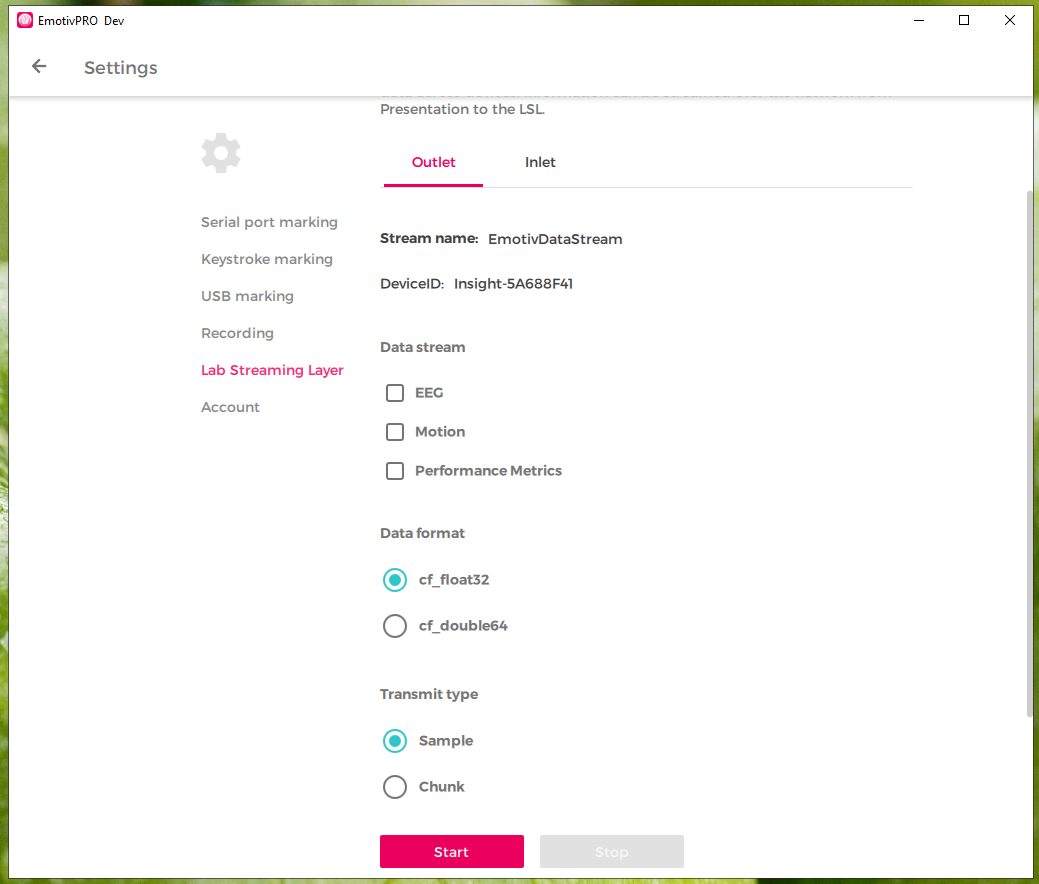
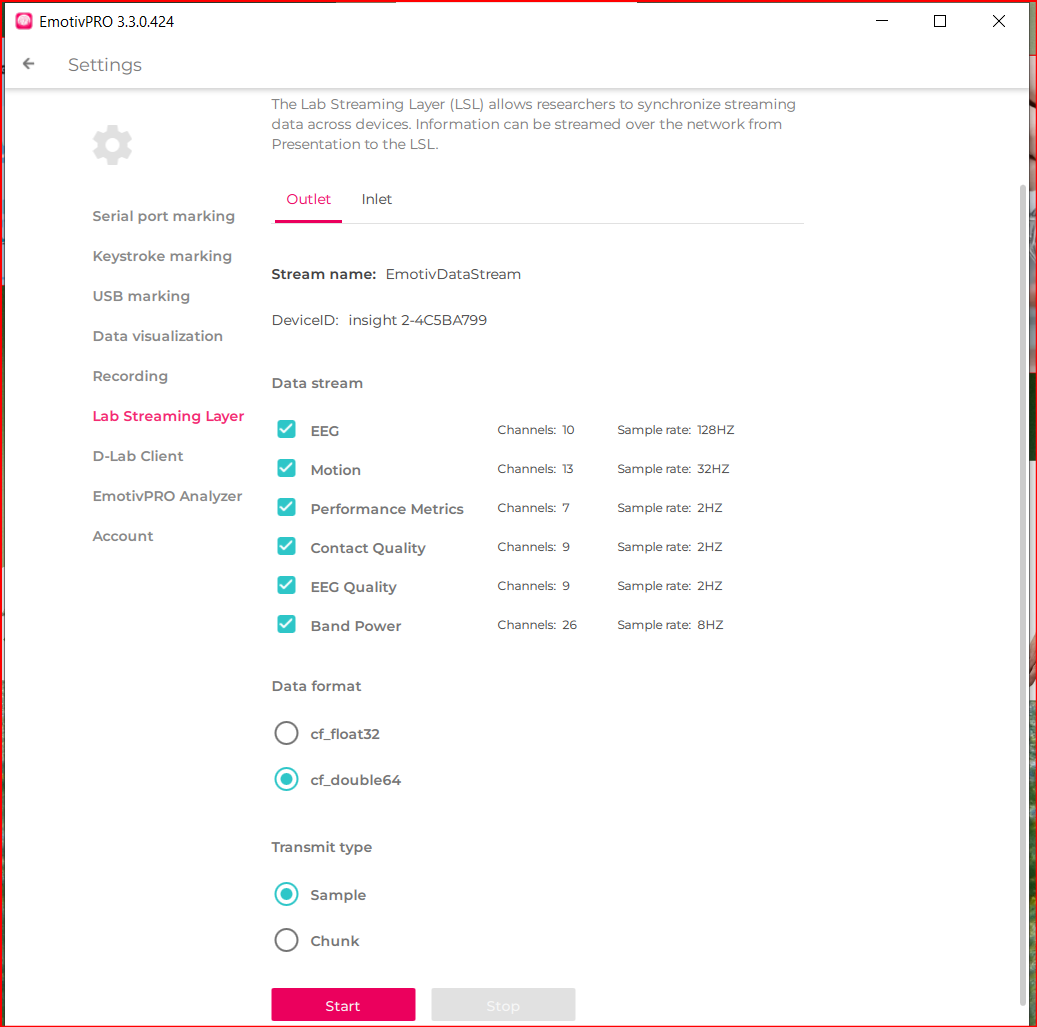
support band power lsl outlet

diff --git a/examples/python/ReceiveData.py b/examples/python/ReceiveData.py
@@ -2,17 +2,17 @@
 import time
 from pylsl import StreamInlet, resolve_stream
 
-# first resolve an EEG stream on the lab network
 print("looking for a stream...")
-streams = resolve_stream('type', 'Motion')
+# first resolve a Motion stream on the lab network
+streams = resolve_stream('type', 'Motion') # You can try other stream types such as: EEG, EEG-Quality, Contact-Quality, Performance-Metrics, Band-Power
 print(streams)
 
 # create a new inlet to read from the stream
 inlet = StreamInlet(streams[0])
 
 while True:
-    # get a new sample (you can also omit the timestamp part if you're not
-    # interested in it)
+    # Returns a tuple (sample,timestamp) where sample is a list of channel values and timestamp is the capture time of the sample on the remote machine,
+    # or (None,None) if no new sample was available
     sample, timestamp = inlet.pull_sample()
     if timestamp != None:
         print(timestamp, sample)

diff --git a/README.md b/README.md
@@ -15,9 +15,9 @@ After connecting your EMOTIV Brainwear&reg; headset on EmotivPro, go to Settings
   <img src="https://github.com/Emotiv/labstreaminglayer/blob/emotiv-lsl/docs/images/config-outlet.png">
 </p>
 
-* **Stream name:** Set the stream name for transmission. The stream name consists of the prefix "EmotivDataStream-"  combined with data types such as: *EEG*, *Motion*, *Performance-Metrics*, *Contact-Quality* or *EEG-Quality*.
+* **Stream name:** Set the stream name for transmission. The stream name consists of the prefix "EmotivDataStream-"  combined with data types such as: *EEG*, *Motion*, *Performance-Metrics*, *Contact-Quality*, *EEG-Quality* or *Band-Power*
 
-* **Data stream:** Choose the data stream for transmission and select between supported EEG, Motion, Performance Metrics, Contact Quality, EEG Quality Data. Each one will create an individual LSL stream.
+* **Data stream:** Choose the data stream for transmission and select between supported EEG, Motion, Performance Metrics, Contact Quality, EEG Quality, Band Power Data. An individual LSL stream will be created for each one.
 
 * **Data format:** Currently, 2 types are supported: *cf_float32* or *cf_double64*. But if you choose type *cf_float32*, the timestamp might not be correct as expected because the timestamp value is out of range(-16777216 to 16777216) which mentioned in [LSL doc](https://labstreaminglayer.readthedocs.io/projects/liblsl/ref/enums.html).
 
@@ -33,6 +33,7 @@ Motion | {"Timestamp", "Counter", "Interpolate", "Q0","Q1","Q2","Q3", "ACCX","AC
 Performance-Metrics | {"Timestamp", "Engagement","Excitement","Focus","Interest ", "Relaxation","Stress"} | 2 Hz for high resolution / 0.1 Hz for low resolution | Description of Performance metric at [link](https://emotiv.gitbook.io/cortex-api/data-subscription/data-sample-object#performance-metric)
 Contact-Quality | {"Timestamp", "BatteryPercent", "Overall", "Signal", <EEG sensors> } | 2 Hz | Description of Contact Quality at [link](https://emotiv.gitbook.io/cortex-api/data-subscription/data-sample-object#device-information) but the order of channels changes a bit.
 EEG-Quality | {"Timestamp","BatteryPercent","Overall","SampleRateQuality", <EEG sensors>} | 2 Hz | Description of EEG Quality at [link](https://emotiv.gitbook.io/cortex-api/data-subscription/data-sample-object#eeg-quality)
+Band-Power | {"Timestamp",<EEG sensors/Band>} | 8 Hz | Description of Band Power at [link](https://emotiv.gitbook.io/cortex-api/data-subscription/data-sample-object#band-power)
 
 
 ## How to work with LSL Inlet
@@ -53,10 +54,10 @@ After sending marker via LSL, You can see the stream name in the Inlet page. Cho
 
 Currently we only support sending markers to the Inlet with 2 options:
 
-1. A simple marker value - Double / integer type is expected but EmotivPRO will extract only the integer part before adding into data stream.
+1. **A simple marker value** - Double / integer type is expected but EmotivPRO will extract only the integer part before adding into data stream.
   * Expected format of data: `{"MarkerValue"}`
 
-2. Marker with time for timing synchronization - The marker event is a vector with 3 elements:
+2. **Marker with time for timing synchronization** - The marker event is a vector with 3 elements:
   * `MarkerTime` is the epoch time of the event in double type.
   * `MarkerValue` is value of marker. Double / integer type is expected but EmotivPRO will extract only the integer part before adding into data stream.
   * `CurrentTime` is current epoch time (double type) when the marker is being pushed to the Inlet. It is usually later than the `MarkerTime`.

diff --git a/docs/ReleaseNotes.md b/docs/ReleaseNotes.md
@@ -1,5 +1,8 @@
 # Release Notes
 
+## 17th April, 2022
+- Support Band Power for EmotivPRO LSL Outlet
+
 ## 28th September, 2021
 - Update Markers channels to EEG LSL outlet data stream.
 - Update name EMOTIV App to EMOTIV Launcher
